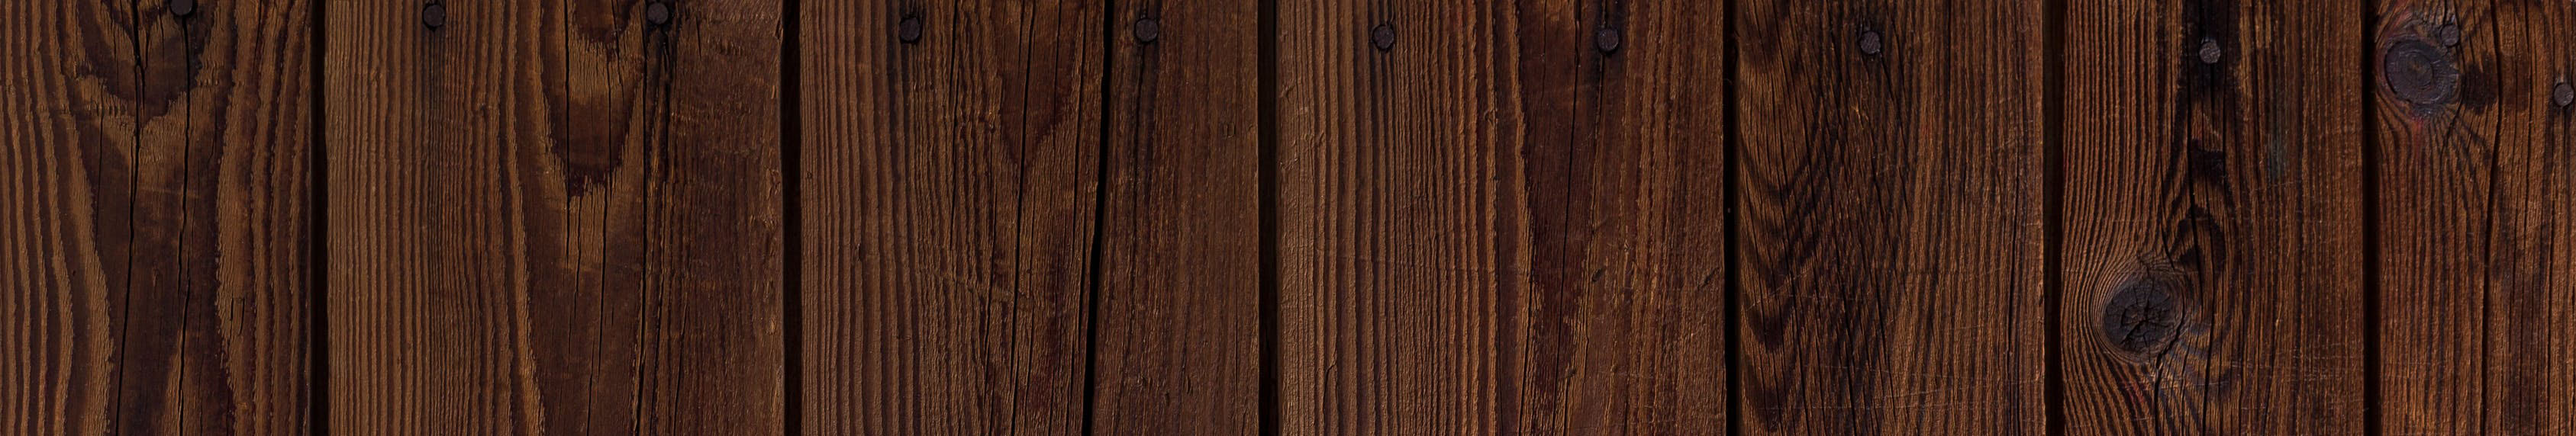
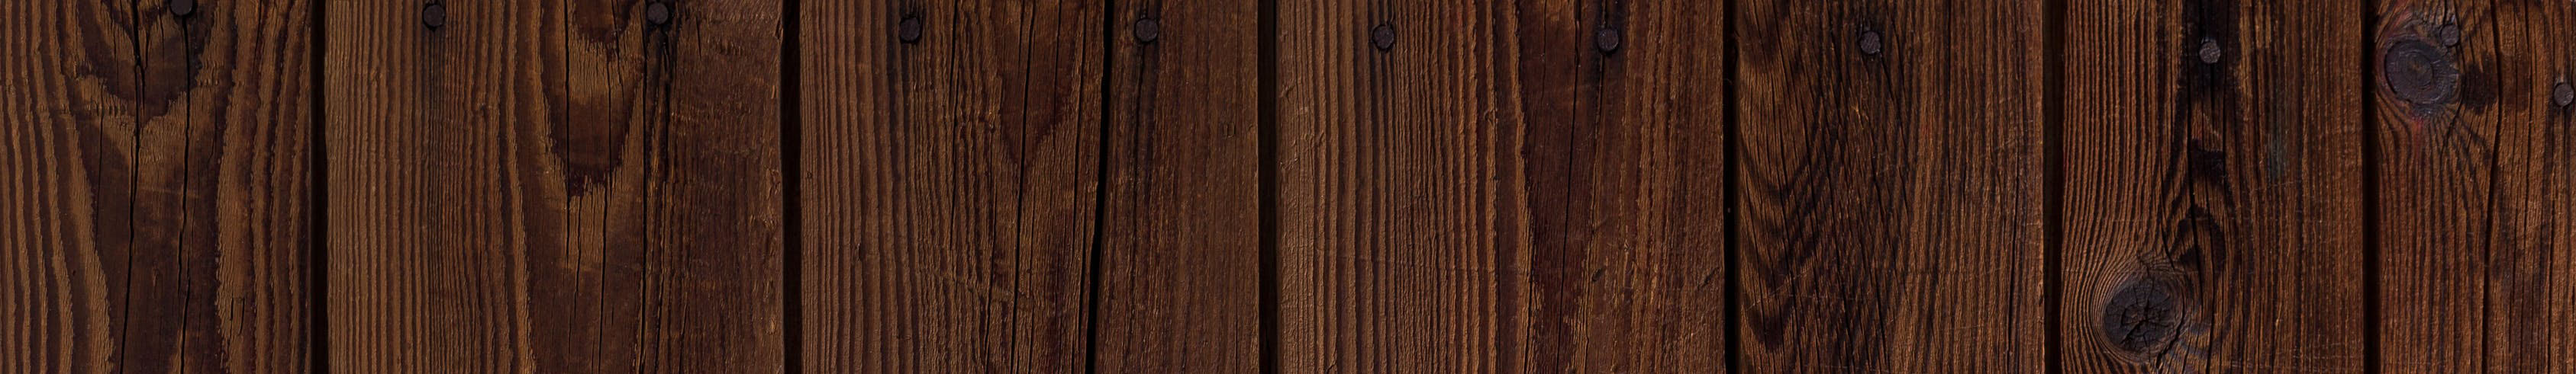
merge to combine work

diff --git a/index.html b/index.html
@@ -159,7 +159,7 @@
 </div>
 
 <!-------Build Team------->
-<img src="images/wood.jpeg" alt="wood panels accent">
+<img src="images/wood2.jpg" alt="wood panels accent">
 <div class='buildBox'>
         <img src="images/chefPortfolioLogo.jpg" alt="Chef Portfolio logo" width="550px">       
     <h2>Build Team</h2>
@@ -169,32 +169,28 @@
                     Josh Disney<br>Team Lead
                 </div>  
                 <div class='members'>
-                    <img src="images/buildTeam/josh.png" alt="William pic" width="250px"> 
-                    William
-                </div> 
-                <div class='members'>
-                    <img src="images/buildTeam/josh.png" alt="Josh Disney pic" width="250px"> 
-                    ?????
+                    <img src="images/buildTeam/william.png" alt="William pic" width="250px"> 
+                    William<br>React II Frontend
                 </div> 
                 <div class='members'>
                     <img src="images/buildTeam/Mario.png" alt="Mario pic" width="250px"> 
-                    Mario
+                    Mario<br>UI Design
                 </div> 
                 <div class='members'>
                     <img src="images/buildTeam/Fernando.png" alt="Fernando pic" width="250px"> 
-                    Fernando
+                    Fernando<br>UI Design
                 </div> 
                 <div class='members'>
                     <img src="images/buildTeam/gavin.png" alt="gavin pic" width="250px"> 
-                    Gavin
+                    Gavin<br>React I Frontend
                 </div> 
                 <div class='members'>
                     <img src="images/buildTeam/JO.png" alt="Jo pic" width="250px"> 
-                    Jo
+                    Jo<br>Node Backend
                 </div> 
                 <div class='members'>
                     <img src="images/buildTeam/Nick.png" alt="Nick pic" width="250px"> 
-                    Nick
+                    Nick<br>React II frontend
                 </div> 
             </divclass>
 </div>

diff --git a/css/index.css b/css/index.css
@@ -391,9 +391,20 @@ img {
   text-align: center;
   margin: 1% 10%;
 }
+@media ( max-width: 500px ) {
+  .aboutBox {
+    margin: 0 0;
+    text-align: center;
+  }
+}
 .aboutBox .saladBox {
   display: flex;
   object-fit: scale-down;
+}
+@media ( max-width: 500px ) {
+  .aboutBox .saladBox {
+    text-align: center;
+  }
 }
 .aboutBox .featBox {
   align-content: center;
@@ -485,12 +496,14 @@ input[type=submit]:hover {
 }
 /*================ FOOTER ===================*/
 .footer {
-  padding-top: 3%;
-  background-image: url(../images/wood.jpeg);
+  padding-top: 1%;
+  background-image: url(../images/woodOG.jpg);
   background-position: center center;
   background-size: cover;
   background-attachment: fixed;
-  height: 20vh;
+  image-rendering: pixelated;
+  height: 19vh;
+  width: 100%;
   text-decoration: none;
 }
 .footer .navFooter {

diff --git a/less/footer.less b/less/footer.less
@@ -1,11 +1,13 @@
 .footer{
     // border: 1px solid red;
-    padding-top: 3%;
-    background-image: url(../images/wood.jpeg);
+    padding-top: 1%;
+    background-image: url(../images/woodOG.jpg);
     background-position: center center;
     background-size: cover;
     background-attachment: fixed;
-    height: 20vh;
+    image-rendering: pixelated;
+    height: 19vh;
+    width: 100%;
     text-decoration: none;
     .navFooter{
         display: flex;

diff --git a/less/aboutus.less b/less/aboutus.less
@@ -1,11 +1,17 @@
 .aboutBox {
     text-align: center;
     margin: 1% 10%;
-    // border: 1px solid red;
+    @media @mobile{
+        margin: 0 0;
+        text-align: center;
+    }
     .saladBox {
         // border: 1px solid pink;
         display: flex;
         object-fit: scale-down;
+        @media @mobile{
+            text-align: center;
+        }
     }
     .featBox {
         //display: flex;

diff --git a/less/variables.less b/less/variables.less
@@ -1,0 +1,10 @@
+//Colors//
+
+
+
+// -- Media Q ---//
+@mobile: ~'( max-width: 500px )';
+
+
+
+//-----//
